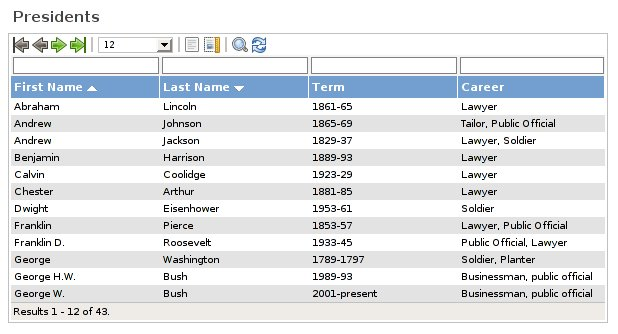
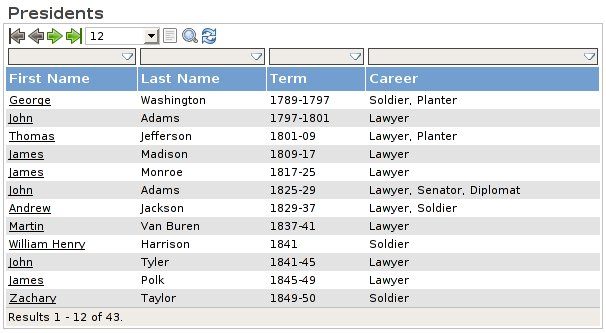
Added in a better pic and links.

Changed region(s): [[0.0, 0.0, 1.0, 0.991]]

diff --git a/jmesaWeb/src/org/jmesaweb/controller/HtmlTableUsingComponentFactory.java b/jmesaWeb/src/org/jmesaweb/controller/HtmlTableUsingComponentFactory.java
@@ -25,7 +25,6 @@ import org.jmesa.view.html.component.HtmlColumn;
 import org.jmesa.view.html.component.HtmlRow;
 import org.jmesa.view.html.component.HtmlTable;
 import org.jmesa.view.html.toolbar.Toolbar;
-import org.jmesa.view.html.toolbar.ToolbarFactory;
 import org.jmesa.view.html.toolbar.ToolbarFactoryImpl;
 import org.jmesa.web.WebContext;
 
@@ -53,11 +52,6 @@ public class HtmlTableUsingComponentFactory {
 
         // create the columns
         
-        HtmlColumn checkbox = factory.createColumn(new CheckboxEditor());
-        checkbox.setFilterable(false);
-        checkbox.setSortable(false);
-        row.addColumn(checkbox);
-        
         CellEditor customEditor = new PresidentsLinkEditor(editor);
         HtmlColumn firstName = factory.createColumn("name.firstName", customEditor);
         firstName.setTitle("First Name");
@@ -73,7 +67,7 @@ public class HtmlTableUsingComponentFactory {
 
         HtmlColumn career = factory.createColumn("career", editor);
         row.addColumn(career);
-        
+
         CellEditor dateCellEditor = factory.createDateCellEditor();
         HtmlColumn bornColumn = factory.createColumn("born", dateCellEditor);
         bornColumn.setFilterable(false);
@@ -81,7 +75,7 @@ public class HtmlTableUsingComponentFactory {
         row.addColumn(bornColumn);
 
         // create the view
-        ToolbarFactory toolbarFactory = new ToolbarFactoryImpl(table, webContext, coreContext, CSV);
+        ToolbarFactoryImpl toolbarFactory = new ToolbarFactoryImpl(table, webContext, coreContext, CSV);
         Toolbar toolbar = toolbarFactory.createToolbar();
         View view = new HtmlView(table, toolbar, coreContext);
 
@@ -105,15 +99,6 @@ public class HtmlTableUsingComponentFactory {
             html.a().href().quote().append("http://www.whitehouse.gov/history/presidents/").quote().close();
             html.append(value);
             html.aEnd();
-            return html.toString();
-        }
-    }
-    
-    
-    private static class CheckboxEditor implements CellEditor {
-        public Object getValue(Object item, String property, int rowcount) {
-            HtmlBuilder html = new HtmlBuilder();
-            html.input().type("checkbox").end();
             return html.toString();
         }
     }

diff --git a/jmesaWeb/src/org/jmesaweb/controller/AdvancedPresidentController.java b/jmesaWeb/src/org/jmesaweb/controller/AdvancedPresidentController.java
@@ -26,9 +26,6 @@ import org.jmesa.core.CoreContextFactoryImpl;
 import org.jmesa.limit.Limit;
 import org.jmesa.limit.LimitFactory;
 import org.jmesa.limit.LimitFactoryImpl;
-import org.jmesa.limit.Order;
-import org.jmesa.limit.RowSelect;
-import org.jmesa.limit.RowSelectImpl;
 import org.jmesa.web.HttpServletRequestWebContext;
 import org.jmesa.web.WebContext;
 import org.jmesaweb.service.PresidentService;
@@ -53,7 +50,7 @@ public class AdvancedPresidentController extends AbstractController {
         WebContext webContext = new HttpServletRequestWebContext(request);
         Collection<Object> items = presidentService.getPresidents();
         Limit limit = getLimit(items, webContext);
-        limit.getSortSet().addSort("name.firstName", Order.ASC);
+        
         CoreContext coreContext = getCoreContext(items, limit, webContext);
 
         if (limit.isExportable()) {
@@ -72,16 +69,7 @@ public class AdvancedPresidentController extends AbstractController {
 
     public Limit getLimit(Collection items, WebContext webContext) {
         LimitFactory limitFactory = new LimitFactoryImpl(id, webContext);
-        Limit limit = limitFactory.createLimit();
-
-        if (limit.isExportable()) {
-            RowSelect rowSelect = new RowSelectImpl(1, items.size(), items.size());
-            limit.setRowSelect(rowSelect);
-        } else {
-            RowSelect rowSelect = limitFactory.createRowSelect(maxRows, items.size());
-            limit.setRowSelect(rowSelect);
-        }
-
+        Limit limit = limitFactory.createLimitAndRowSelect(maxRows, items.size());
         return limit;
     }
 

diff --git a/jmesaWeb/src/org/jmesaweb/controller/CsvTableUsingComponentFactory.java b/jmesaWeb/src/org/jmesaweb/controller/CsvTableUsingComponentFactory.java
@@ -48,18 +48,17 @@ public class CsvTableUsingComponentFactory {
         CellEditor editor = factory.createBasicCellEditor();
 
         // create the columns
+        Column firstName = factory.createColumn("name.firstName", editor);
+        row.addColumn(firstName);
 
-        Column firstNameColumn = factory.createColumn("name.firstName", editor);
-        row.addColumn(firstNameColumn);
+        Column lastName = factory.createColumn("name.lastName", editor);
+        row.addColumn(lastName);
 
-        Column lastNameColumn = factory.createColumn("name.lastName", editor);
-        row.addColumn(lastNameColumn);
+        Column term = factory.createColumn("term", editor);
+        row.addColumn(term);
 
-        Column termColumn = factory.createColumn("term", editor);
-        row.addColumn(termColumn);
-
-        Column careerColumn = factory.createColumn("career", editor);
-        row.addColumn(careerColumn);
+        Column career = factory.createColumn("career", editor);
+        row.addColumn(career);
 
         // create the view
         CsvView view = new CsvView(table, coreContext);

diff --git a/jmesaWeb/src/org/jmesaweb/controller/AjaxLimitPresidentController.java b/jmesaWeb/src/org/jmesaweb/controller/AjaxLimitPresidentController.java
@@ -19,7 +19,6 @@ import javax.servlet.http.HttpServletRequest;
 import javax.servlet.http.HttpServletResponse;
 
 import org.jmesa.core.CoreContext;
-import org.jmesa.limit.Limit;
 import org.jmesa.web.HttpServletRequestWebContext;
 import org.jmesa.web.WebContext;
 import org.springframework.web.servlet.ModelAndView;
@@ -37,15 +36,6 @@ public class AjaxLimitPresidentController extends AbstractController {
             throws Exception {
         WebContext webContext = new HttpServletRequestWebContext(request);
         CoreContext coreContext = limitCoreContext.getCoreContext(webContext);
-        Limit limit = coreContext.getLimit();
-
-        if (limit.isExportable()) {
-            String type = limit.getExport().getType();
-            if (type.equals(HtmlTableUsingTableFactory.CSV)) {
-                new CsvTableUsingTableFactory().render(response, webContext, coreContext);
-                return null;
-            }
-        }
 
         Object presidents = new HtmlTableUsingComponentFactory().render(webContext, coreContext);
         byte[] contents = presidents.toString().getBytes();

diff --git a/jmesaWeb/src/org/jmesaweb/controller/BasicPresidentController.java b/jmesaWeb/src/org/jmesaweb/controller/BasicPresidentController.java
@@ -26,8 +26,6 @@ import org.jmesa.core.CoreContextFactoryImpl;
 import org.jmesa.limit.Limit;
 import org.jmesa.limit.LimitFactory;
 import org.jmesa.limit.LimitFactoryImpl;
-import org.jmesa.limit.RowSelect;
-import org.jmesa.limit.RowSelectImpl;
 import org.jmesa.web.HttpServletRequestWebContext;
 import org.jmesa.web.WebContext;
 import org.jmesaweb.service.PresidentService;
@@ -72,16 +70,7 @@ public class BasicPresidentController extends AbstractController {
 
     public Limit getLimit(Collection items, WebContext webContext) {
         LimitFactory limitFactory = new LimitFactoryImpl(id, webContext);
-        Limit limit = limitFactory.createLimit();
-
-        if (limit.isExportable()) {
-            RowSelect rowSelect = new RowSelectImpl(1, items.size(), items.size());
-            limit.setRowSelect(rowSelect);
-        } else {
-            RowSelect rowSelect = limitFactory.createRowSelect(maxRows, items.size());
-            limit.setRowSelect(rowSelect);
-        }
-
+        Limit limit = limitFactory.createLimitAndRowSelect(maxRows, items.size());
         return limit;
     }
 

diff --git a/jmesaWeb/src/org/jmesaweb/dao/PresidentSort.java b/jmesaWeb/src/org/jmesaweb/dao/PresidentSort.java
@@ -35,20 +35,20 @@ public class PresidentSort implements CriteriaCommand {
         sorts.add(new Sort(property, order));
     }
 
-	public Criteria execute(Criteria criteria) {
+    public Criteria execute(Criteria criteria) {
         for (Sort sort : sorts) {
             buildCriteria(criteria, sort.getProperty(), sort.getOrder());
         }
 
         return criteria;
-	}
+    }
 
-	private void buildCriteria(Criteria criteria, String property, String order) {
-		if (order.equals(Sort.ASC)) {
-			criteria.addOrder(Order.asc(property));
-		} else if (order.equals(Sort.DESC)) {
-			criteria.addOrder(Order.desc(property));
-		}
-	}
+    private void buildCriteria(Criteria criteria, String property, String order) {
+        if (order.equals(Sort.ASC)) {
+            criteria.addOrder(Order.asc(property));
+        } else if (order.equals(Sort.DESC)) {
+            criteria.addOrder(Order.desc(property));
+        }
+    }
 
 }

diff --git a/jmesaWeb/src/org/jmesaweb/controller/HtmlTableUsingTableFactory.java b/jmesaWeb/src/org/jmesaweb/controller/HtmlTableUsingTableFactory.java
@@ -25,7 +25,6 @@ import org.jmesa.view.html.HtmlTableFactory;
 import org.jmesa.view.html.HtmlView;
 import org.jmesa.view.html.component.HtmlTable;
 import org.jmesa.view.html.toolbar.Toolbar;
-import org.jmesa.view.html.toolbar.ToolbarFactory;
 import org.jmesa.view.html.toolbar.ToolbarFactoryImpl;
 import org.jmesa.web.WebContext;
 
@@ -50,7 +49,8 @@ public class HtmlTableUsingTableFactory {
         Column lastName = table.getRow().getColumn("name.lastName");
         lastName.setTitle("Last Name");
 
-        ToolbarFactory toolbarFactory = new ToolbarFactoryImpl(table, webContext, coreContext, CSV);
+        ToolbarFactoryImpl toolbarFactory = new ToolbarFactoryImpl(table, webContext, coreContext, CSV);
+        toolbarFactory.enableSeparators(false);
         Toolbar toolbar = toolbarFactory.createToolbar();
         View view = new HtmlView(table, toolbar, coreContext);
 

diff --git a/jmesaWeb/src/org/jmesaweb/dao/PresidentFilter.java b/jmesaWeb/src/org/jmesaweb/dao/PresidentFilter.java
@@ -43,7 +43,7 @@ public class PresidentFilter implements CriteriaCommand {
         for (Filter filter : filters) {
             buildCriteria(criteria, filter.getProperty(), filter.getValue());
         }
-        
+
         return criteria;
     }
 
